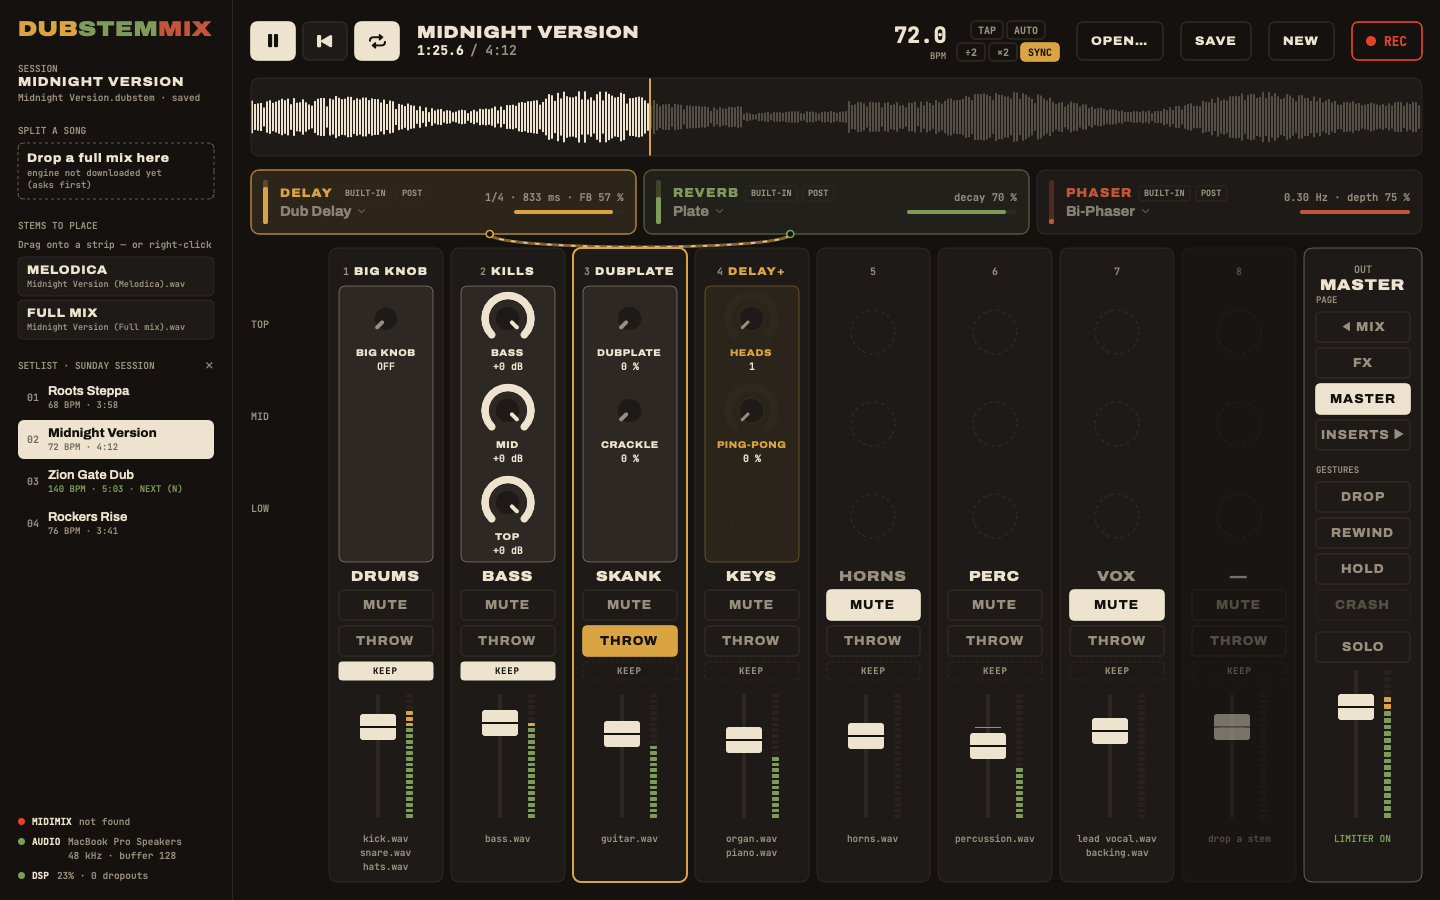
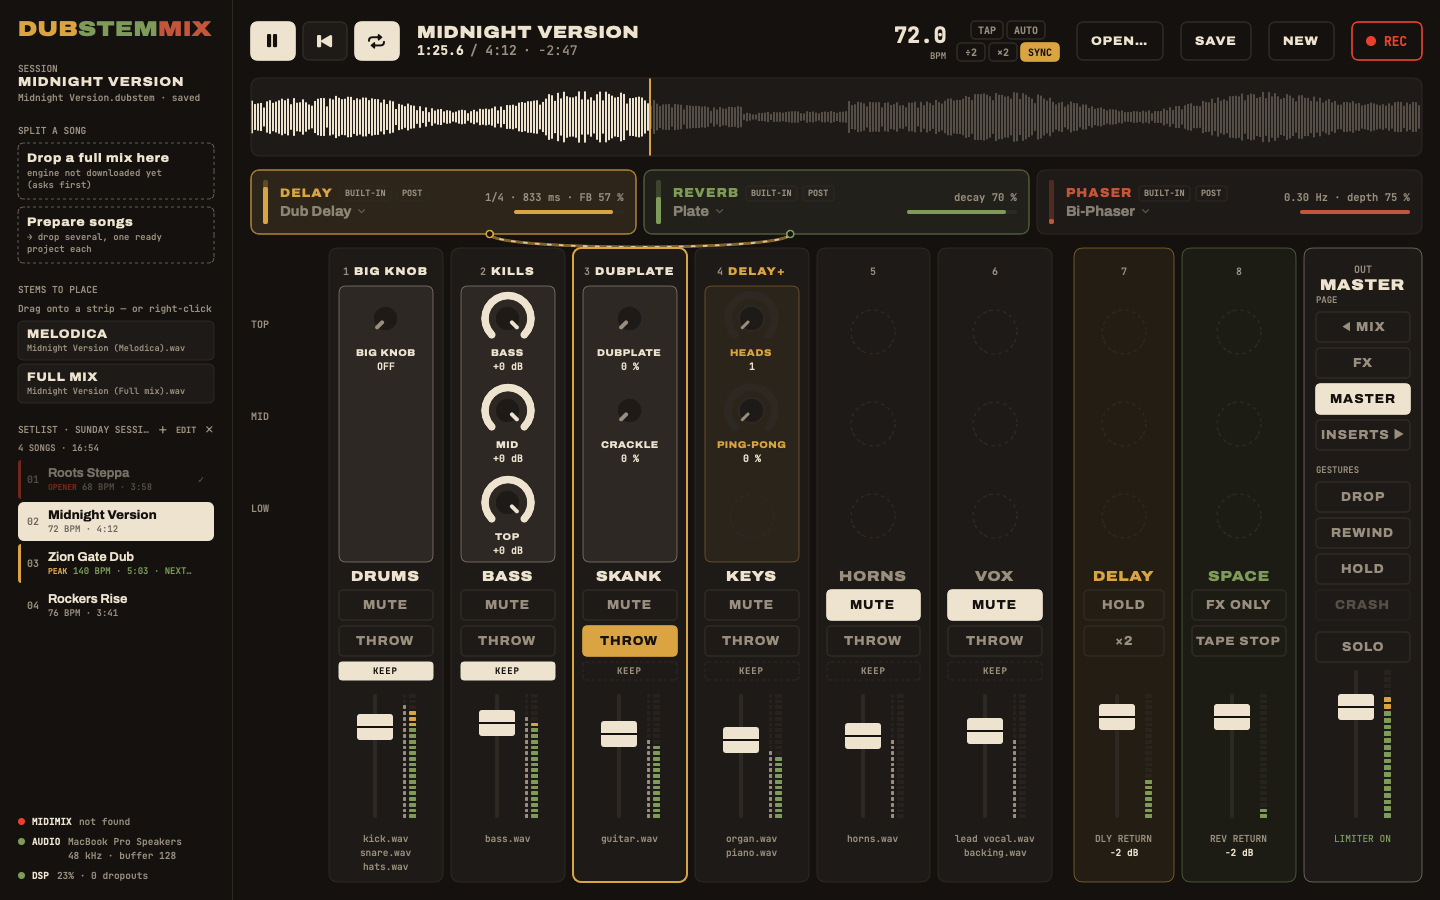
Docs: effect strips 7 and 8 in the README and on the site, new screenshots

diff --git a/web/src/site.ts b/web/src/site.ts
@@ -13,7 +13,7 @@ export const site = {
   // <title>: under 60 characters. Description: under 160, for search snippets and link previews.
   title: "DubStemMix · Live dub mixing for the Akai MIDImix",
   description:
-    "Free dub mixing console for macOS and the Akai MIDImix. Stems on eight faders, cut a dub live: tape delay, spring reverb, kills, throws. No DAW, nothing to map.",
+    "Free dub mixing console for macOS and the Akai MIDImix. Stems on six faders, effects on two more, cut a dub live: tape delay, spring reverb, kills, throws. No DAW, nothing to map.",
   keywords: [
     "dub mixing", "dub", "reggae", "stems", "Akai MIDImix", "live mixing", "tape delay", "spring reverb",
     "sound system", "stem separation", "demucs", "macOS", "MIDI controller", "version", "riddim", "open source",

diff --git a/README.md b/README.md
@@ -2,13 +2,13 @@
 
 # DubStemMix
 
-**Version excursion for the Akai MIDImix.** Take the stems of a tune, put them on eight faders, and cut your own version the way it was done at King Tubby's: pull the vocal, throw the snare into the echo, drop everything but bass and drums, let the spring crash. No DAW, no session to prepare, nothing to map. Plug the console, drop a folder of stems, play.
+**Version excursion for the Akai MIDImix.** Take the stems of a tune, put them on six faders, keep two more to play the effects, and cut your own version the way it was done at King Tubby's: pull the vocal, throw the snare into the echo, drop everything but bass and drums, let the spring crash. No DAW, no session to prepare, nothing to map. Plug the console, drop a folder of stems, play.
 
 Free and open source (MIT). macOS 15 or later (built and tested on macOS 26), Apple Silicon.
 
 ▶ [Watch it in action on YouTube](https://www.youtube.com/watch?v=k314RyG2htE)
 
-<p align="center"><img src="docs/screenshots/mix.png" width="100%" alt="DubStemMix, MIX page: eight strips with sends to delay, reverb and phaser"></p>
+<p align="center"><img src="docs/screenshots/mix.png" width="100%" alt="DubStemMix, MIX page: six stem strips with sends to delay, reverb and phaser, then the two effect strips"></p>
 
 ## Install
 
@@ -38,7 +38,7 @@ No stems? Drop a full song in **SPLIT A SONG** and get drums, bass, instruments 
 
 ## The board
 
-Eight strips, mirrored on screen so what you touch is where you look. Per strip: three knobs, MUTE, REC ARM, a fader. BANK LEFT / BANK RIGHT change what the knobs do; the faders stay strip volumes on every page.
+Eight strips, mirrored on screen so what you touch is where you look: strips 1 to 6 hold the stems, strips 7 and 8 play the effects (see [The effect strips](#the-effect-strips)). Per strip: three knobs, MUTE, REC ARM, a fader. BANK LEFT / BANK RIGHT change what the knobs do; the stem faders stay strip volumes on every page.
 
 | Page | Reach it | The knobs are |
 |---|---|---|
@@ -53,11 +53,26 @@ Eight strips, mirrored on screen so what you touch is where you look. Per strip:
 - Sends are post-fader by default; Settings (⌘,) switch any bus to pre-fader for the classic move: fader down, echo still running.
 - **Bus to bus**: any bus return can be patched into another bus, see [Patching the buses](#patching-the-buses).
 
+### The effect strips
+
+Strips 7 and 8 hold no stem: they put the effects under your hands without leaving the MIX page, so you can send the vocal into the delay with one hand and bend the echo with the other.
+
+| | Strip 7 · DELAY | Strip 8 · SPACE |
+|---|---|---|
+| Top knob | delay speed (ms, or a division with SYNC) | phaser rate (bus 3) |
+| Middle knob | delay feedback, up to self-oscillation | delay → its chosen bus |
+| Bottom knob | reverb length | reverb → its chosen bus |
+| Fader | delay return | reverb return |
+| MUTE (hold) | **HOLD**: the delay loops on itself | **FX ONLY**: the dry sound leaves, the stems keep feeding the effects |
+| REC ARM (hold) | **×2**: the delay goes twice as fast, the echoes jump an octave up | **TAPE STOP**: the delay's tape brakes to a standstill, and speeds up again when you let go |
+
+The knobs are a second way to reach the FX page's settings: they catch the value up before acting, like any knob after a page change. On the other pages the knobs of strips 7 and 8 keep that page's role; their faders hold the returns on every page, so changing page never changes the sound. The LEDs stay lit while you hold a gesture. ×2 and TAPE STOP play the built-in delay (not a plugin on the delay bus).
+
 <p align="center"><img src="docs/screenshots/fx.png" width="100%" alt="DubStemMix, FX page: the knobs drive the tape delay, the reverb and the phaser"></p>
 
 ## Gestures
 
-Keyboard or the buttons in the master column. They never touch your mutes: release, and the mix is exactly as it was.
+Keyboard or the buttons in the master column (HOLD also on strip 7, and the effect strips' own gestures, see above). They never touch your mutes: release, and the mix is exactly as it was.
 
 | Key | Gesture |
 |---|---|
@@ -189,7 +204,7 @@ git clone https://github.com/yoanbernabeu/DubStemMix.git
 cd DubStemMix
 swift run DubStemMix          # runs the app from the package
 tools/make-app.sh 0.10.0 dist  # builds dist/DubStemMix.app and the zip
-swift test                    # 98 tests, no model or audio device needed
+swift test                    # 109 tests, no model or audio device needed
 ```
 
 Needs Xcode 26 (Swift 6.2). Useful self-checks without the UI: `--check-documents`, `--check-audio`, `--check-plugins`, `--check-plugin-crash`, `--download-models`, `--split <file>` (add `--project` to also write the song's ready project next to its stems), `--check-prepare <out dir> <files…>` (runs the preparation queue on these files, then a second queue cancelled after 5 s). The screenshots above come from `--snapshot <file.png> [--fx | --master | --inserts | --settings | --prepare | --setlists]`, rendered with demo data.

diff --git a/TODO.md b/TODO.md
@@ -59,4 +59,4 @@
 - [x] Console : tranches 1-6 pour les stems, potards / faders / boutons des tranches 7-8 ; anciens stems sur 7-8 → réserve.
 - [x] Écran : tranches 7-8 teintées, écartées des stems.
 - [x] **[toi]** Essayé et validé à la MIDImix le 10/10 : vitesse du delay en tournant le potard 7 du haut, HOLD puis ×2, tape stop sur un écho, FX ONLY sur la voix envoyée dans le delay, faders 7-8 en changeant de page.
-- [ ] Doc (README, site, captures) une fois l'essai validé.
+- [x] Doc : README (« The effect strips »), site (The board, Gestures, accroche, llms.txt), captures MIX / FX / MASTER / INSERTS refaites.
